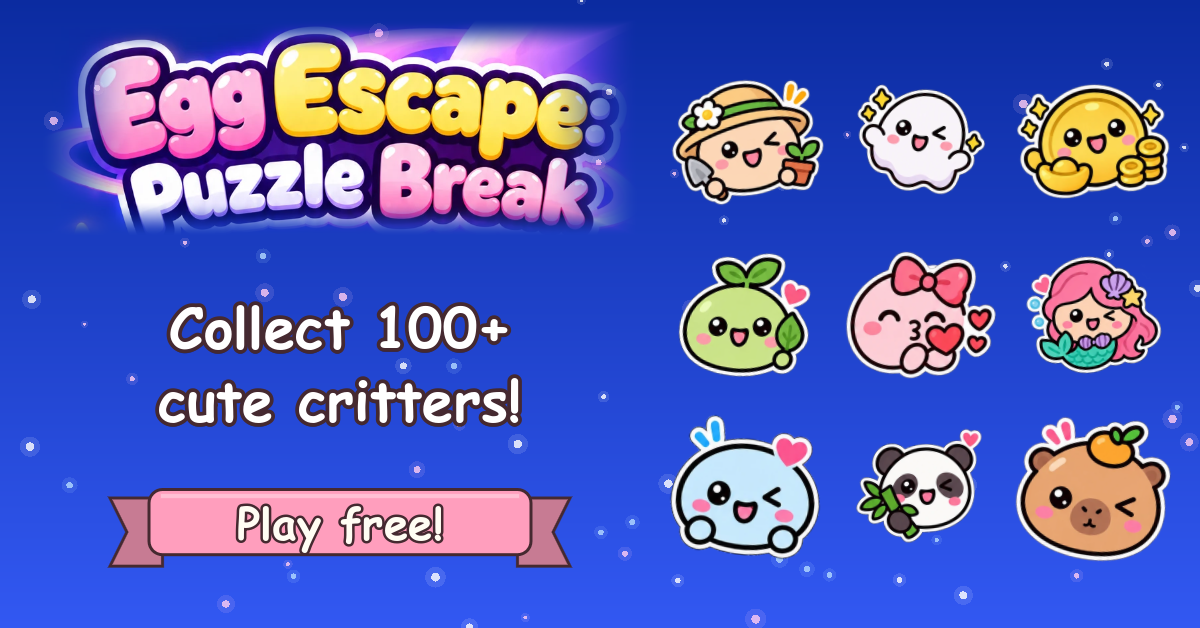
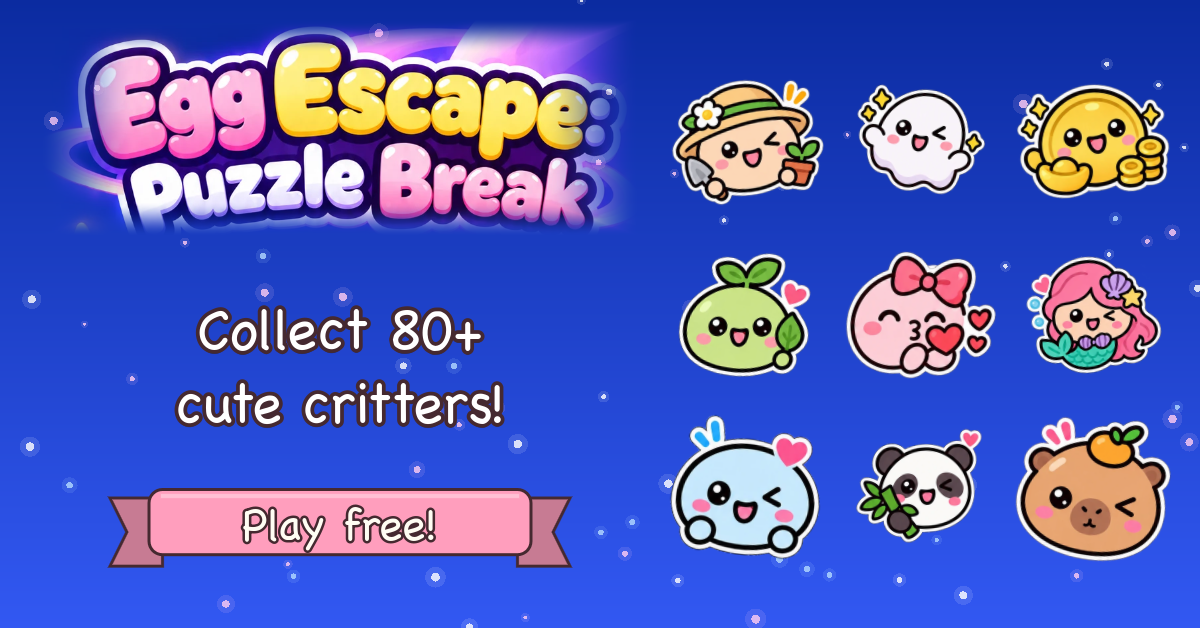
Meta ads plan for iOS (store/ads/meta_ads.md): App promotion, App Store, installs, $10/day, US and Canada, the Google Ads copy and images. "100+ critters" is now "80+" everywhere (82 in the Collection): the Google copy and the Collect images, rebuilt.

Changed region(s): [[0.1233, 0.6051, 0.4625, 0.6959], [0.1233, 0.4841, 0.4317, 0.5748], [0.185, 0.7866, 0.37, 0.8774]]

diff --git a/store/ads/meta_ads.md b/store/ads/meta_ads.md
@@ -1,0 +1,61 @@
+# Meta ads (Facebook and Instagram): iOS install campaign
+
+For Egg Escape: Puzzle Break on the App Store (id 6819941762), measured by the
+Meta SDK in iOS 1.3.8 (build 16) and later: installs, app opens, the first
+lesson, levels 5/10/20, valuable_player and purchases (docs/ios.md). Material
+from the Google Ads App campaign (README.md), with "100+ critters" corrected to
+"80+" (82 in the Collection; the App Store listing says "over 80").
+
+## Setup (decided 26 Nov 2026)
+
+- **Ad account:** 1147370341286624. **Meta app:** Egg Escape (1108143348953147).
+- **Campaign:** `EE - Meta - iOS - Installs - US/CA`, objective App promotion,
+  app Egg Escape, store App Store, optimisation App installs.
+- **Budget:** $10 a day.
+- **Countries:** United States and Canada (no consent card there, so Meta sees
+  every install).
+- **Age:** 18+ (Meta's minimum for most ad delivery; the game is rated 13+, but
+  ads to under-18s are restricted).
+- **Placements:** Advantage+ placements (Facebook, Instagram, Audience Network,
+  Messenger).
+- **Start:** published straight away (26 Nov 2026), while 1.3.8 was still in
+  App Review: until it's live, Meta can't see iPhone installs, so learning
+  starts once it is.
+
+## Primary text (up to 5; 125 characters show before "See more")
+
+1. Spin the egg, drop matching blocks and dig a path out for the critter trapped inside. 🥚
+2. Hundreds of levels, clever blockers, win streaks and timed challenge eggs to beat!
+3. Collect and level up 80+ cute critters, open chests and rebuild your crashed ship.
+4. Relaxing pastel art, cozy music and a new Daily Egg puzzle to crack every day.
+5. Can you save them all? Play Egg Escape: Puzzle Break free today!
+
+## Headlines (up to 5, 40 characters)
+
+1. Crack the egg, free a critter
+2. Spin, match & break free!
+3. Collect 80+ cute critters
+4. Cozy block puzzle game
+5. Free puzzle fun, any time
+
+## Call to action
+
+Install now.
+
+## Images
+
+The square (1200x1200) and portrait (1200x1500, 4:5) versions of all five
+ideas: `01_crack`, `02_rescue`, `03_collect`, `04_adventure`, `05_spin`
+(`*_square_1200x1200.png`, `*_portrait_1200x1500.png`). Feed placements use
+square or 4:5; Stories and Reels crop the 4:5 or use a 9:16 if given. The
+landscape ones are for Google's Display network and aren't needed here.
+
+The "Collect" images were rebuilt on 26 Nov 2026 to say "Collect 80+ cute critters!"
+(they said 100+).
+
+## Videos
+
+The gameplay videos (README.md, `store/ads/video/`) are made on the Windows PC
+and aren't in git. Meta wants the files themselves (not YouTube links): add the
+portrait 720x1280 one (Reels and Stories) and the square one (feeds) to the ad
+from that PC. Meta takes AVI, but MP4 uploads faster.

diff --git a/store/ads/README.md b/store/ads/README.md
@@ -11,7 +11,7 @@ set it up once production access is granted and the app is published.
 
 1. Crack the egg, free a critter
 2. Spin, match & break free!
-3. Collect 100+ cute critters
+3. Collect 80+ cute critters
 4. Cozy block puzzle game
 5. Free puzzle fun, any time
 
@@ -19,7 +19,7 @@ set it up once production access is granted and the app is published.
 
 1. Spin the egg, drop matching blocks and dig a path out for the critter trapped inside.
 2. Hundreds of levels, clever blockers, win streaks and timed challenge eggs to beat!
-3. Collect and level up 100+ cute critters, open chests and rebuild your crashed ship.
+3. Collect and level up 80+ cute critters, open chests and rebuild your crashed ship.
 4. Relaxing pastel art, cozy music and a new Daily Egg puzzle to crack every day.
 5. Can you save them all? Play Egg Escape: Block Puzzle Match free today!
 
@@ -31,7 +31,7 @@ Five ideas, each in all three shapes App campaigns use. Upload all 15.
 |---|---|---|---|---|
 | Crack | Crack the egg. Free the critter! | `01_crack_landscape_1200x628.png` | `01_crack_square_1200x1200.png` | `01_crack_portrait_1200x1500.png` |
 | Rescue | Can you save them all? | `02_rescue_landscape_1200x628.png` | `02_rescue_square_1200x1200.png` | `02_rescue_portrait_1200x1500.png` |
-| Collect | Collect 100+ cute critters! | `03_collect_landscape_1200x628.png` | `03_collect_square_1200x1200.png` | `03_collect_portrait_1200x1500.png` |
+| Collect | Collect 80+ cute critters! | `03_collect_landscape_1200x628.png` | `03_collect_square_1200x1200.png` | `03_collect_portrait_1200x1500.png` |
 | Adventure | A cozy puzzle adventure | `04_adventure_landscape_1200x628.png` | `04_adventure_square_1200x1200.png` | `04_adventure_portrait_1200x1500.png` |
 | Spin | Spin. Match. Escape! | `05_spin_landscape_1200x628.png` | `05_spin_square_1200x1200.png` | `05_spin_portrait_1200x1500.png` |
 
